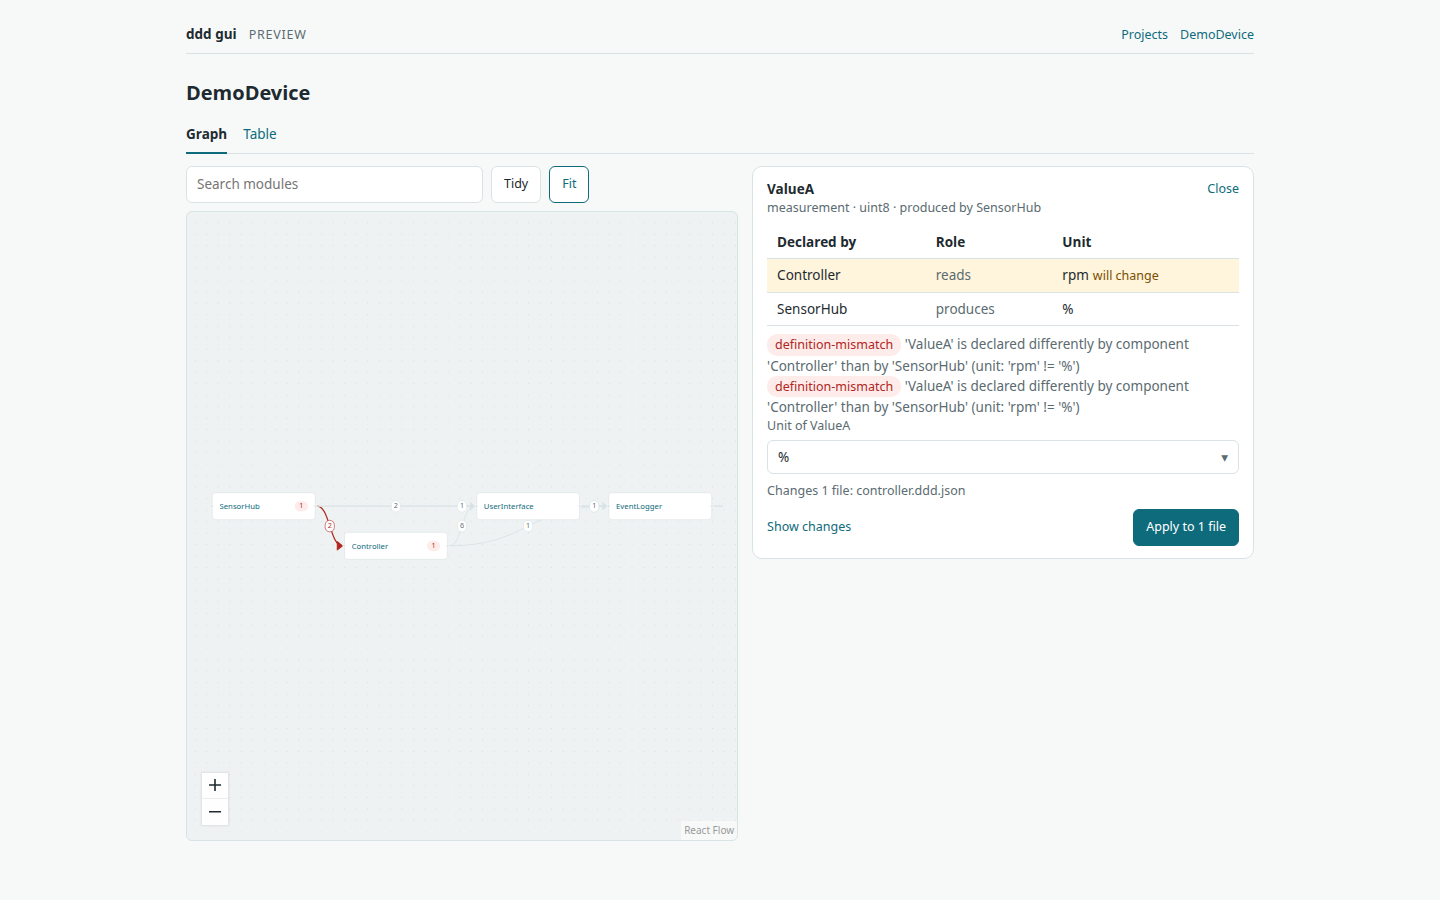
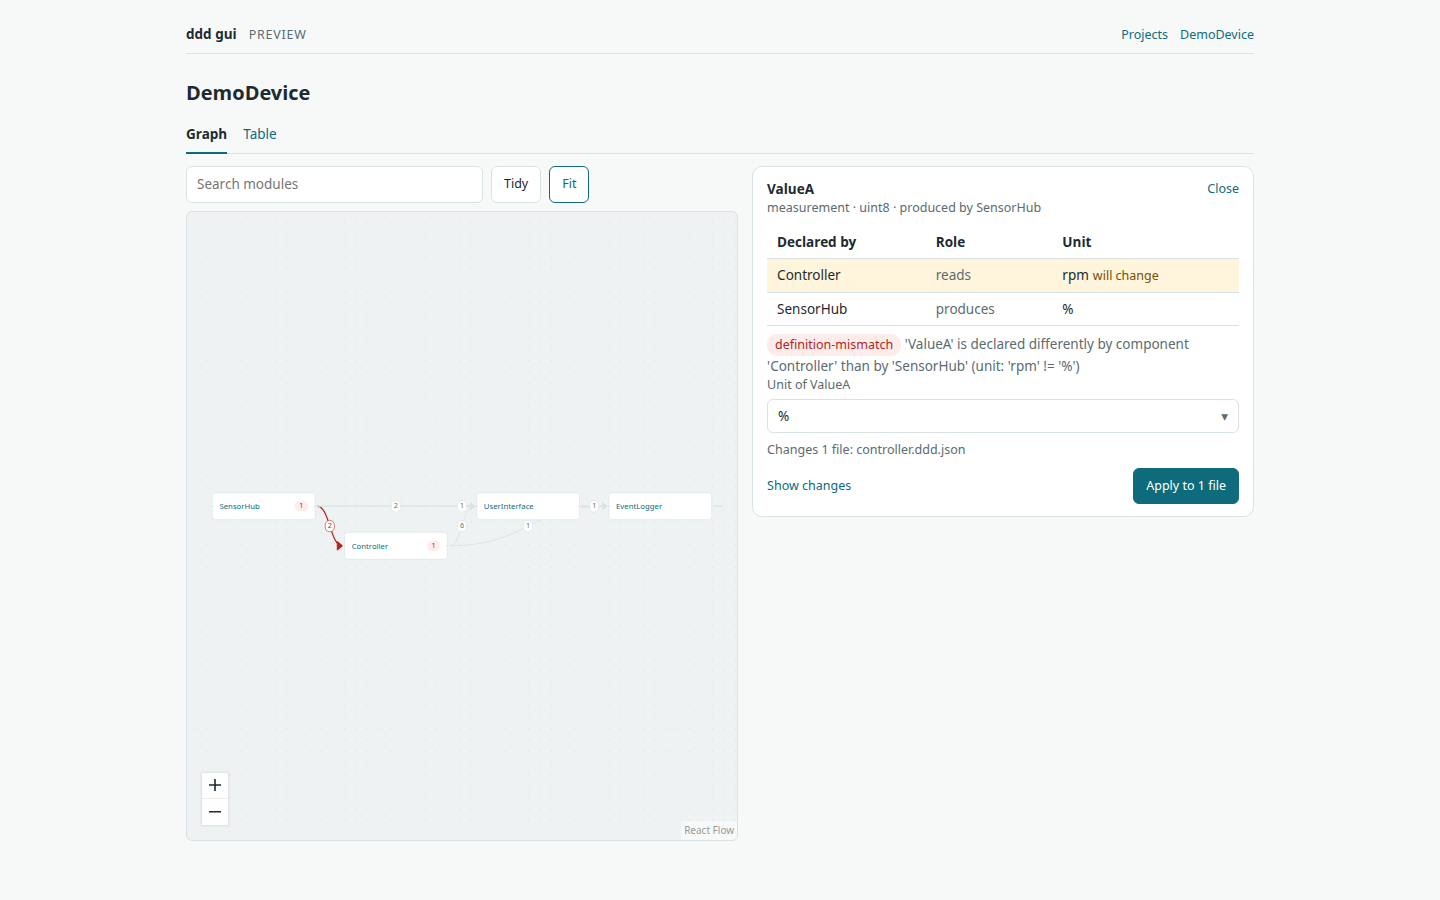
log the follow-up that fixed the pull request's two open points, with its rulings, and take the built panel's screenshots again now that it says each finding once

Changed region(s): [[0.5312, 0.4044, 0.8125, 0.5911], [0.7812, 0.4978, 0.875, 0.6222]]

diff --git a/docs/superpowers/plans/2026-09-18-gui-units.md b/docs/superpowers/plans/2026-09-18-gui-units.md
@@ -3955,10 +3955,11 @@ The gate's result, the screenshots, what part 1 does and does not do, every ruli
 | 10 | 23:47 | 30 min | ~375k | The documentation, which turned that test green. Review clean. |
 | Final review | 00:17 | 1 h 39 min | ~1,360k | The whole branch on opus: "with fixes". A unit typed and confirmed with Enter was shown but never chosen, so Apply wrote another (the plan's Task 5 code); spec 5.5's close of a panel whose variable is gone was missing; the editor's changed behaviour was undocumented; the chooser and the arrow's keyboard path had no journey. One fix wave on opus (five commits, five new journeys, the endpoints tested over copies of both examples), then a re-review on opus that reproduced every fix in Chrome: all addressed, two new minors, parked below. |
 | 11 | 01:57 | 8 min | controller | The gate from a clean build: Python 3374 passed at 100 %, ruff, mypy, the documentation from nothing, Vitest 106 at 100 %, the build, Ladle, 24 journeys in Chrome, 19 stories in Playwright's image. Then `docker compose up gui`: ValueA drifted from outside, resolved from the component page and again from the canvas, the file back byte for byte with its owner and mode (1000:1000, 664), no policy violation; the screenshots are beside this plan in `2026-09-18-gui-units/`. |
+| Follow-up | 07:30 | 25 min | controller | The two points the pull request left to the maintainer, fixed at their request. A file saved half-edited closed the panel of a variable only it declared, for good: `GET /api/variable` and `/api/settle` now answer `unreadable`, naming the file, while a file does not load, and the panel waits for it. The panel said a disagreement's sentence once per file it is filed on: it now says each finding once. A journey of milestone 1 raced the canvas's own alert when the server stopped (on master too) and now looks for its banner by its text. The gate again: Python 3376 passed at 100 %, Vitest 108, 25 journeys twice, 19 stories; in `docker compose up gui`, both fixes seen and the screenshots beside this plan taken again. |
 
 ## Left open by the implementers
 
-The minor findings of the task reviews, which the final whole-branch review triaged as able to wait, and what it and the re-review of its fix wave found beside them. The maintainer decides which, if any, must be fixed before merging; the last one is raised with them.
+The minor findings of the task reviews, which the final whole-branch review triaged as able to wait, and what it and the re-review of its fix wave found beside them. The maintainer decides which, if any, must be fixed before merging.
 
 - Task 1: the report said the "asserted rather than guarded" idiom was used twice in `lsp/edits.py`; there was one earlier instance.
 - Task 2: `units_in_use`'s tie-break by spelling is untested; `_planned`'s byte-order-mark stripping is not exercised; `units_in_use` reads `.unit` at index-recorded sites without `declarations_of`'s freshness check (a transient miscount until the next revision).
@@ -3970,8 +3971,8 @@ The minor findings of the task reviews, which the final whole-branch review tria
 - Task 8: `.panel-choices` where the ruling said `ul.panel-choices`; `opensPanel` repeats `objectsInDisagreement`'s predicate; no test of an arrow whose disagreements all name no variable.
 - Task 9: the `gui-screenshots` job runs `npm ci` without a package cache.
 - Task 10: the developer page states the screenshots' rationale twice; the web GUI spec's section 6.7 still describes milestone 1's unit editor, as its record.
-- Final review: the vocabulary state is photographed with its list closed; a panel opened from the canvas by keyboard leaves the focus on the arrow; a `definition-mismatch` is reported at both files, so the panel lists its sentence twice (visible in the screenshots); the canvas keeps its viewport when a panel narrows it, so part of the project is out of view until Fit.
-- Re-review of the fix wave: a list React Aria flips above the field sits flush on it (`offset={0}` relies on a `margin-top`); and **a file saved with an error closes the panel of a variable only that file declares, with a false "no longer declared" banner, and the panel does not come back when the file is fixed** - `GET /api/variable` answers the same `404 not-found` for a name no file declares, for one whose only declaring file did not load, and for a revision without an index.
+- Final review: the vocabulary state is photographed with its list closed; a panel opened from the canvas by keyboard leaves the focus on the arrow; the canvas keeps its viewport when a panel narrows it, so part of the project is out of view until Fit.
+- Re-review of the fix wave: a list React Aria flips above the field sits flush on it (`offset={0}` relies on a `margin-top`).
 - For part 3: `settle` knows the type rule only for `MEANING_KEYS`, while `datatype` and `typename` are exclusive storage; and it compares raw text, so equal `limits` or `conversion` objects spelled differently would read "will change".
 
 ## Rulings made while writing and executing the plan
@@ -3995,7 +3996,7 @@ Rulings 8 to 13 were taken executing the plan, from 2026-09-18 18:30, in the con
 12. **`Unsettled.reason` keeps `unreachable`/`kind`/`type`** (a Task 1 review finding asked for the spec's wire codes): `refusal()` maps them, and the endpoints' tests assert the codes. Cost if wrong: one small mapping dict.
 13. **`_assign` reads a typename as `settle` does** (a string), fixing the plan's `raw_at(...) is not None`, which took an explicit null for a type. Cost if wrong: none.
 
-Rulings 14 to 29 were taken executing Tasks 4 to 11 and the final review, from 2026-09-18 20:09:
+Rulings 14 to 32 were taken executing Tasks 4 to 11, the final review and the follow-up, from 2026-09-18 20:09:
 
 14. **A row keeps React Aria's classes.** The plan's `className="declarations"` on the table and `"has-error"` on a row replaced React Aria's default classes, so `ui.css` never highlighted the selected row; a row's class is a function adding `has-error` to its `defaultClassName`. Cost if wrong: none.
 15. **Typing the no-unit label is an exact match**, so choosing "No unit" no longer offers "As typed: no unit", which would have written those words as the unit. Cost if wrong: none.
@@ -4013,3 +4014,6 @@ Rulings 14 to 29 were taken executing Tasks 4 to 11 and the final review, from 2
 27. **The milestone gate ran after the final review's fix wave**, so it checked the code that merges. Cost if wrong: none.
 28. **The final review read a package without the lock file, the images, the mockups, the plan and the spec**, the last two read as files: 277 KB instead of 815 KB. Cost if wrong: a lock-file change no one reviewed after Task 5.
 29. **The re-review's two new minors are parked**, since there is no second fix wave; the false banner on a broken file is raised with the maintainer before merging. Cost if wrong: a misleading banner while a file is broken.
+30. **While a file does not load, a name no loaded file declares is `unreadable`, not `not-found`.** `GET /api/variable` and `/api/settle` answer 409 naming the files that did not load: only when every file loaded can the server say a variable is gone. A panel so answered stays open, saying so, and shows the variable again once the file loads. Cost if wrong: a panel left open, saying a file does not load, for a variable that was really removed while another file was broken.
+31. **The panel says each finding once.** The analysis files a disagreement on both of its files, mirrored onto the producer, and the API answers both, as its contract says; the panel keeps the first of the findings sharing severity, check and message. Cost if wrong: none.
+32. **The server-stopped journey looks for its banner by its text.** Stopped in the middle of the canvas's own request, the page also shows the canvas's "not answering" alert (the module graph's spec 5.6), so `getByRole("alert")` found two; a race on master too. Cost if wrong: none.
